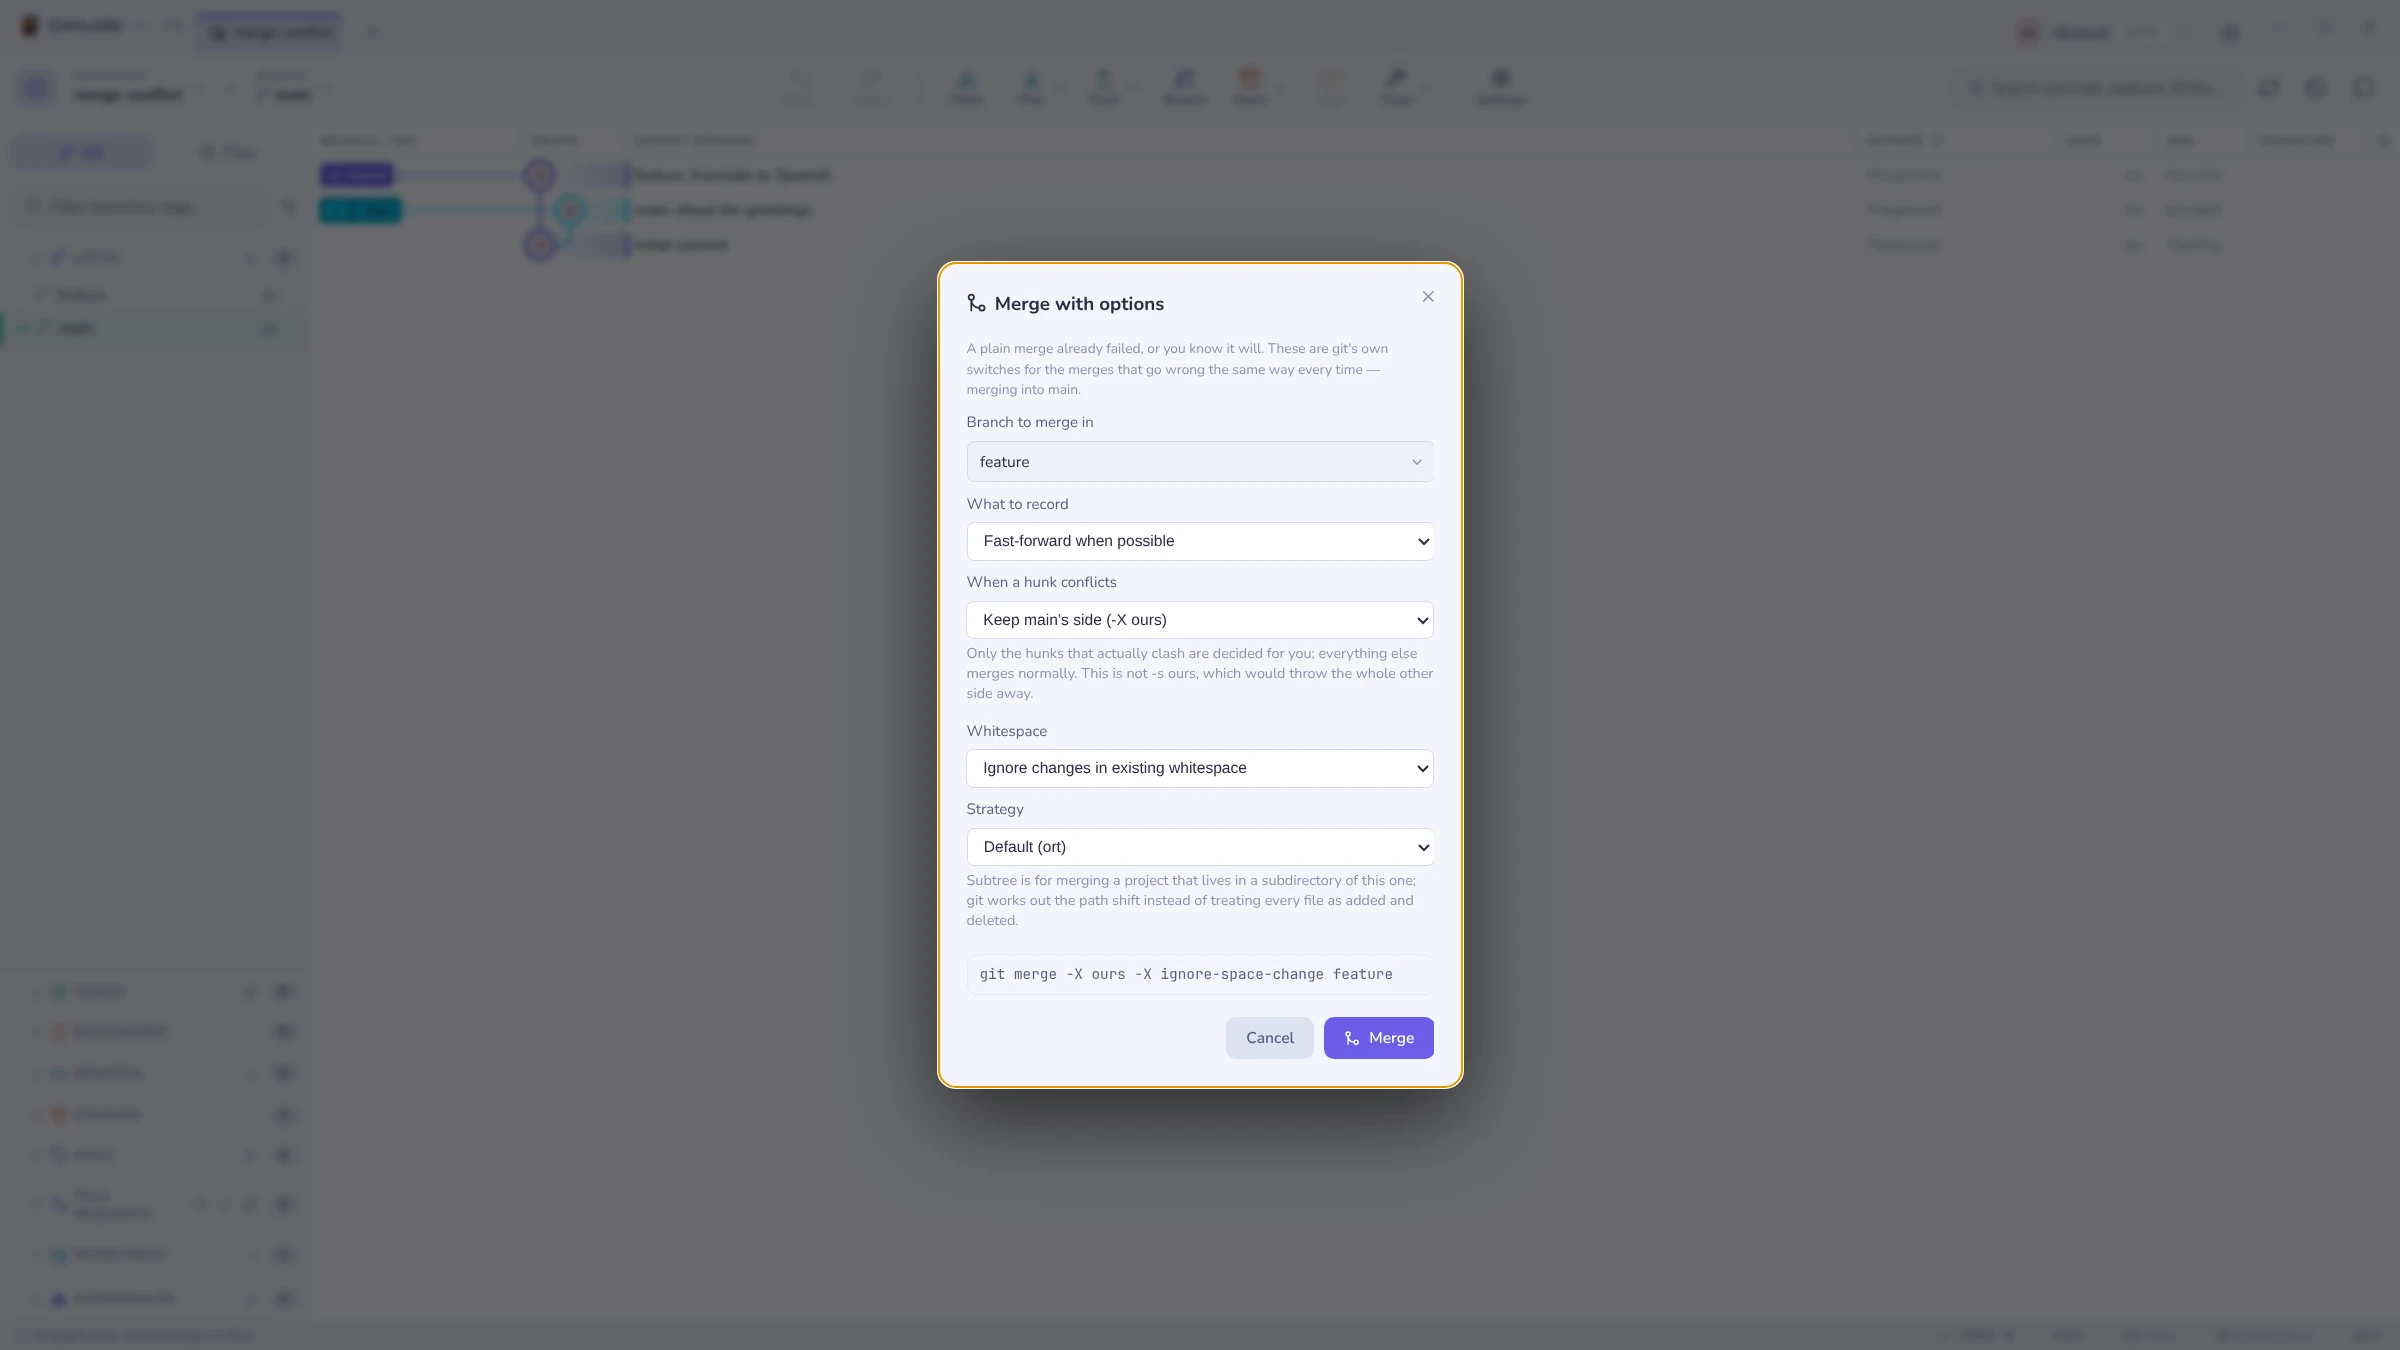
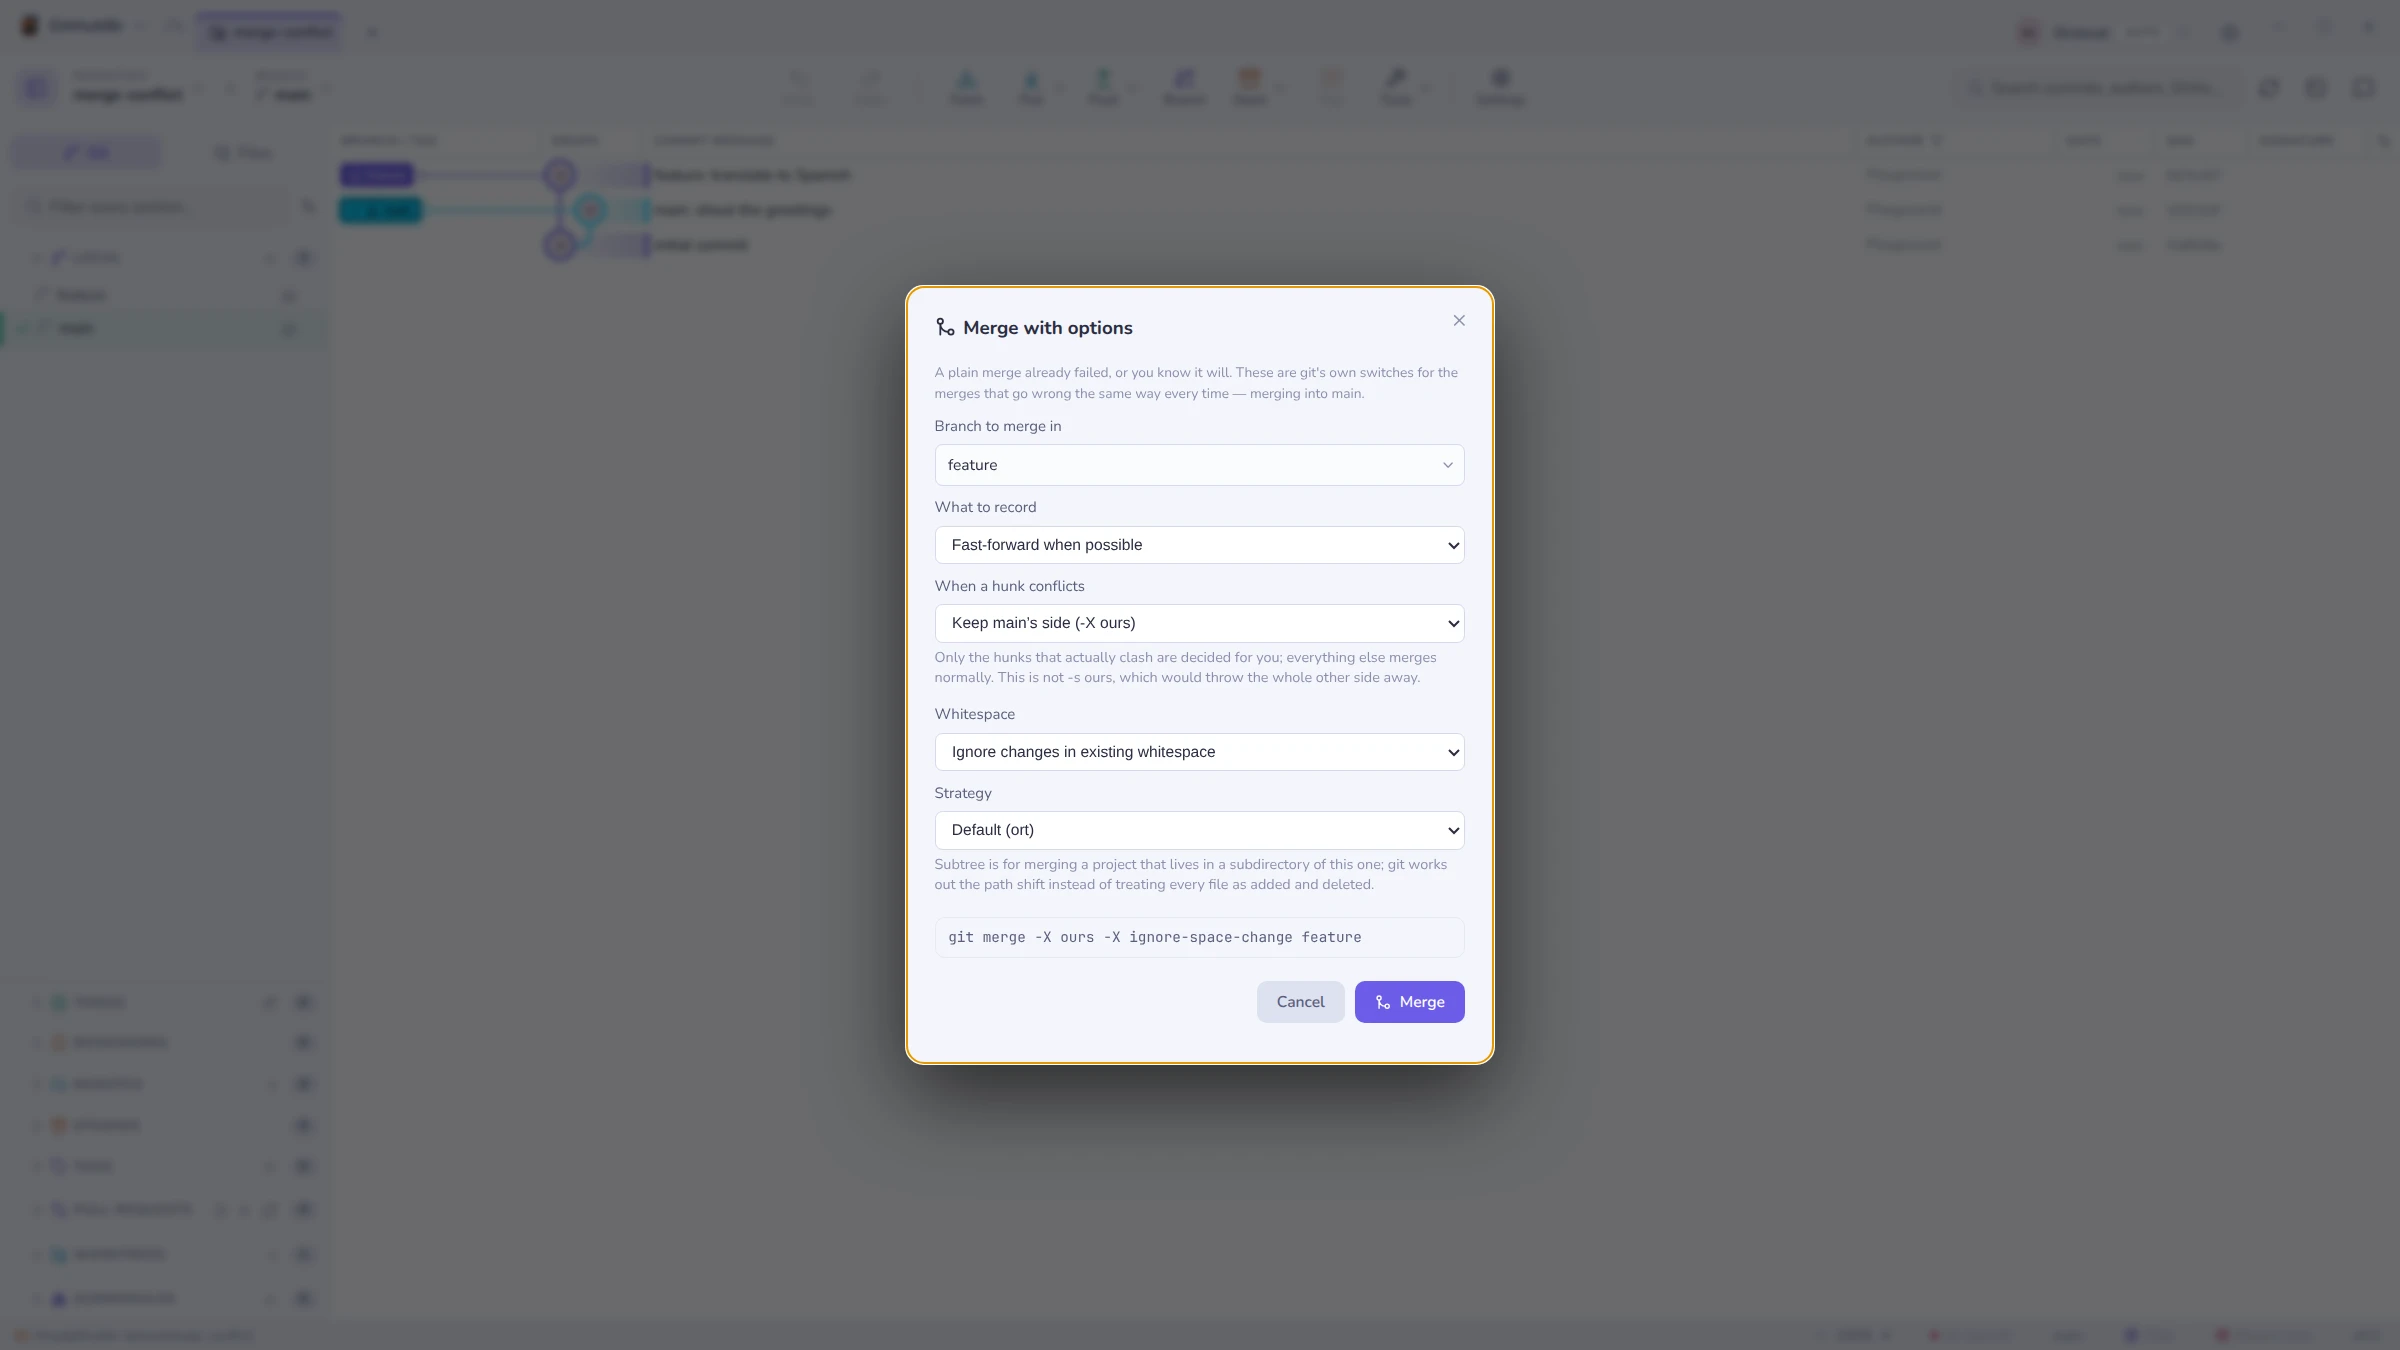
style(merge): merge with options 50px wider and a little taller, so it does not scroll

Changed region(s): [[0.375, 0.1867, 0.625, 0.8089], [0.125, 0.1244, 0.1875, 0.1867]]

diff --git a/src/renderer/src/components/ModalHost.tsx b/src/renderer/src/components/ModalHost.tsx
@@ -2493,6 +2493,8 @@ export function ModalHost(): React.JSX.Element {
                   ? 'modal-wide'
                   : modal.kind === 'launcher' || modal.kind === 'scanned-repos'
                   ? 'modal-launcher'
+                  : modal.kind === 'merge-options'
+                  ? 'modal-merge-options'
                   : modal.kind === 'interactive-rebase' ||
                       modal.kind === 'conflict-radar' ||
                       modal.kind === 'range-diff' ||

diff --git a/src/renderer/src/styles.css b/src/renderer/src/styles.css
@@ -6578,6 +6578,14 @@ body.col-resizing .node-ava {
   padding: 22px 0 0;
   box-shadow: 0 24px 70px rgba(0, 0, 0, 0.6);
 }
+
+/* Merge with options: 50px wider than a plain dialog and a little taller, so its
+   five fields and their hints fit without the dialog scrolling. */
+.modal.modal-merge-options {
+  width: 470px;
+  max-height: calc(100vh - 40px);
+  padding-bottom: 10px;
+}
 .modal-scroll {
   flex: 1 1 auto;
   min-height: 0;
